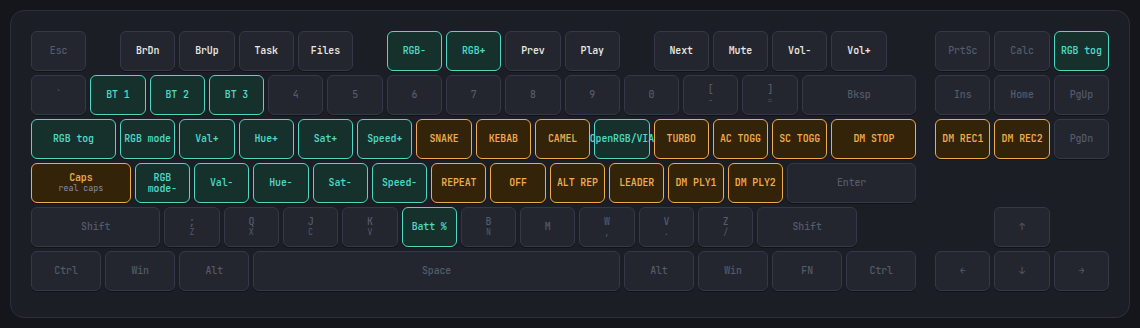
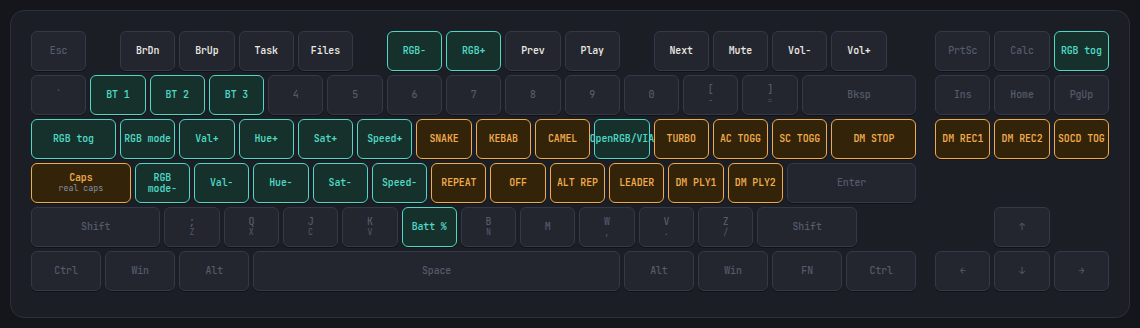
niko keymap: move SOCD toggle from a Q+W combo to Fn+PgDn

Changed region(s): [[0.9211, 0.3659, 0.9825, 0.4878]]

diff --git a/keyboards/keychron/k8_pro/ansi/rgb/keymaps/niko/keymap.c b/keyboards/keychron/k8_pro/ansi/rgb/keymaps/niko/keymap.c
@@ -41,7 +41,7 @@ const uint16_t PROGMEM keymaps[][MATRIX_ROWS][MATRIX_COLS] = {
     [MAC_FN] = LAYOUT_tkl_ansi(
         _______,  KC_F1,    KC_F2,    KC_F3,    KC_F4,    KC_F5,    KC_F6,    KC_F7,    KC_F8,    KC_F9,    KC_F10,   KC_F11,   KC_F12,              _______,  _______,  UG_TOGG,
         _______,  BT_HST1,  BT_HST2,  BT_HST3,  _______,  _______,  _______,  _______,  _______,  _______,  _______,  _______,  _______,  _______,   _______,  _______,  _______,
-        UG_TOGG,  UG_NEXT,  UG_VALU,  UG_HUEU,  UG_SATU,  UG_SPDU,  XCASE_SNAKE, XCASE_KEBAB, XCASE_CAMEL, _______,  TURBO,    AC_TOGG,  SENTENCE_CASE_TOGGLE,  DM_RSTP,   DM_REC1,  DM_REC2,  _______,
+        UG_TOGG,  UG_NEXT,  UG_VALU,  UG_HUEU,  UG_SATU,  UG_SPDU,  XCASE_SNAKE, XCASE_KEBAB, XCASE_CAMEL, _______,  TURBO,    AC_TOGG,  SENTENCE_CASE_TOGGLE,  DM_RSTP,   DM_REC1,  DM_REC2,  SOCDTOG,
         KC_CAPS,  UG_PREV,  UG_VALD,  UG_HUED,  UG_SATD,  UG_SPDD,  QK_REP,   XCASE_OFF, QK_AREP,  LEADER,   DM_PLY1,  DM_PLY2,            _______,
         _______,            _______,  _______,  _______,  _______,  BAT_LVL,  _______,  _______,  _______,  _______,  _______,            _______,             _______,
         _______,  _______,  _______,                                _______,                                _______,  _______,  _______,  _______,   _______,  _______,  _______),
@@ -57,7 +57,7 @@ const uint16_t PROGMEM keymaps[][MATRIX_ROWS][MATRIX_COLS] = {
     [WIN_FN] = LAYOUT_tkl_ansi(
         _______,  KC_BRID,  KC_BRIU,  KC_TASK,  KC_FILE,  UG_VALD,  UG_VALU,  KC_MPRV,  KC_MPLY,  KC_MNXT,  KC_MUTE,  KC_VOLD,  KC_VOLU,             _______,  _______,  UG_TOGG,
         _______,  BT_HST1,  BT_HST2,  BT_HST3,  _______,  _______,  _______,  _______,  _______,  _______,  _______,  _______,  _______,  _______,   _______,  _______,  _______,
-        UG_TOGG,  UG_NEXT,  UG_VALU,  UG_HUEU,  UG_SATU,  UG_SPDU,  XCASE_SNAKE, XCASE_KEBAB, XCASE_CAMEL, SWITCH_MODE, TURBO,  AC_TOGG,  SENTENCE_CASE_TOGGLE,  DM_RSTP,   DM_REC1,  DM_REC2,  _______,
+        UG_TOGG,  UG_NEXT,  UG_VALU,  UG_HUEU,  UG_SATU,  UG_SPDU,  XCASE_SNAKE, XCASE_KEBAB, XCASE_CAMEL, SWITCH_MODE, TURBO,  AC_TOGG,  SENTENCE_CASE_TOGGLE,  DM_RSTP,   DM_REC1,  DM_REC2,  SOCDTOG,
         KC_CAPS,  UG_PREV,  UG_VALD,  UG_HUED,  UG_SATD,  UG_SPDD,  QK_REP,   XCASE_OFF, QK_AREP,  LEADER,   DM_PLY1,  DM_PLY2,            _______,
         _______,            _______,  _______,  _______,  _______,  BAT_LVL,  _______,  _______,  _______,  _______,  _______,            _______,             _______,
         _______,  _______,  _______,                                _______,                                _______,  _______,  _______,  _______,   _______,  _______,  _______)
@@ -65,18 +65,10 @@ const uint16_t PROGMEM keymaps[][MATRIX_ROWS][MATRIX_COLS] = {
 // clang-format on
 
 // SOCD Cleaner: WASD opposing-direction filtering for gaming, enabled by
-// default. Toggle globally with SOCDTOG (bound on a combo below, not a
-// dedicated key -- it's flipped rarely enough that a combo is plenty).
+// default. Toggle globally with SOCDTOG on FN+PgDn.
 socd_cleaner_t socd_opposing_pairs[] = {
     {{KC_W, KC_S}, SOCD_CLEANER_LAST},
     {{KC_A, KC_D}, SOCD_CLEANER_LAST},
-};
-
-// Combos: a way to add bindings without spending a physical key or FN slot.
-// Q+W is an easy two-finger chord in the corner, away from normal typing.
-const uint16_t PROGMEM socd_toggle_combo[] = {KC_Q, KC_W, COMBO_END};
-combo_t                key_combos[]        = {
-    COMBO(socd_toggle_combo, SOCDTOG),
 };
 
 extern uint8_t is_orgb_mode;

diff --git a/readme.md b/readme.md
@@ -13,7 +13,6 @@ firmware's own QWERTY keycode.
 |---|---|
 | ⬜ standard keycode | 🟩 RGB / system (inherited from the openrgb baseline) |
 | 🟧 added in this keymap | ▫ transparent — falls through to base |
-| 🔲 part of a combo | |
 
 ### Mac Base
 
@@ -39,14 +38,13 @@ firmware's own QWERTY keycode.
 interactive, Dvorak-aware version of these diagrams — with hover detail — is also kept up to date
 as a Claude artifact; ask if you want the link.)
 
-## Combos and sequences
+## Sequences
 
-A few bindings don't fit in a single key square, since they involve more than one physical key or
-a typed sequence:
+A few bindings don't fit in a single key square, since they trigger off a typed sequence rather
+than one keypress:
 
 | Trigger | Action |
 |---|---|
-| **`Q` + `W`** held together, either base layer | Sends `SOCDTOG`, toggling SOCD Cleaner (on by default) on the W/S and A/D pairs. Fires on firmware keycodes before the OS's Dvorak layer sees anything, so it isn't affected by which OS keyboard layout is active. A combo rather than an `Fn` key since it's flipped rarely — no reason to spend a slot on it. |
 | **`Fn+L`**, then a sequence | Starts a Super Leader sequence. Currently defined: `B` `O` `O` `T` → reboot to bootloader (for flashing). Sequences live in [`keymaps/niko/super_leader.def`](keyboards/keychron/k8_pro/ansi/rgb/keymaps/niko/super_leader.def) — add more there. |
 | **`Fn+H`** | Repeat Key — replays the last keypress, including any modifiers held at the time. |
 | **`Fn+K`** | Alt Repeat Key — replays the last key's *alternate* action instead (e.g. repeating `C(KC_C)` gives `C(KC_V)`). |
@@ -65,6 +63,9 @@ a typed sequence:
 - **Sentence Case** — auto-capitalizes the first letter of a sentence; on by default, toggle with `Fn+]`.
 - **Autocorrect** — fixes common typos as you finish typing them (70-entry default dictionary);
   off until enabled once with `Fn+[`, then the setting persists.
+- **SOCD Cleaner** — WASD opposing-direction filtering for gaming, on by default; toggle with
+  `Fn+PgDn`. Fires on firmware keycodes before the OS's Dvorak layer sees anything, so it's
+  unaffected by which OS keyboard layout is active.
 
 ## Credits
 
